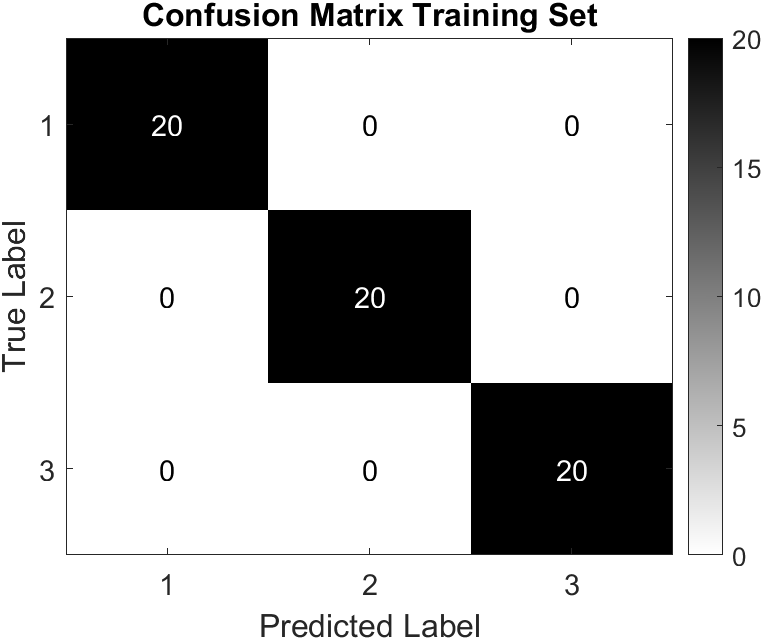
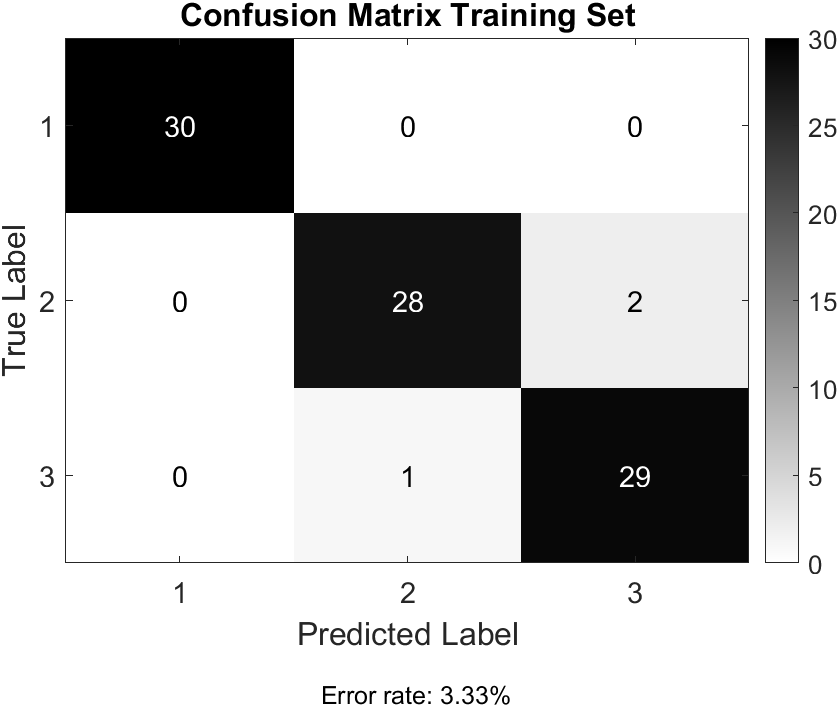
small changes in iriS

diff --git a/initialTest.m b/initialTest.m
@@ -4,22 +4,36 @@ x1all = load('class_1','-ascii');
 x2all = load('class_2', '-ascii');
 x3all = load('class_3', '-ascii');
 
-traininSet = 21:50;
-testSet = 1:20;
+traininSet = 1:30;
+testSet = 31:50;
 features = ["l.sepals", "w.sepals", "l.petals", "w.petals"];
 
+% x1 = x1all;
+% x2 = x2all;   
+% x3 = x3all;
 
+x1 = [x1all(:,1) x1all(:,3) x1all(:,4)];
+x2 = [x2all(:,1) x2all(:,3) x2all(:,4)];
+x3 = [x3all(:,1) x3all(:,3) x3all(:,4)];
 
-x1training = [x1all(traininSet,:)];
-x1test = [x1all(testSet,:)];
+% x1 = [x1all(:,3) x1all(:,4)];
+% x2 = [x2all(:,3) x2all(:,4)];
+% x3 = [x3all(:,3) x3all(:,4)];
+
+% x1 = [x1all(:,3)];
+% x2 = [x2all(:,3)];
+% x3 = [x3all(:,3)];
+
+x1training = [x1(traininSet,:)];
+x1test = [x1(testSet,:)];
 tk1training = kron([1;0;0],ones(size(traininSet)));
 tk1test = kron([1;0;0],ones(size(testSet)));
-x2training = [x2all(traininSet,:)];
-x2test = [x2all(testSet,:)];
+x2training = [x2(traininSet,:)];
+x2test = [x2(testSet,:)];
 tk2training = kron([0;1;0],ones(size(traininSet)));
 tk2test = kron([0;1;0],ones(size(testSet)));
-x3training = [x3all(traininSet,:)];
-x3test = [x3all(testSet,:)];
+x3training = [x3(traininSet,:)];
+x3test = [x3(testSet,:)];
 tk3training = kron([0;0;1],ones(size(traininSet)));
 tk3test = kron([0;0;1],ones(size(testSet)));
 xtraining = [x1training; x2training; x3training];
@@ -32,7 +46,7 @@ C = 3;
 [Ntot,dimx] = size(xtraining);
  
 alpha = 0.005;
-iterations = 10000;
+iterations = 100000;
  
 [W,MSE] = trainingLinearClassifier(xtraining,tktraining, alpha, iterations); 
 [g_training,confmat_training] = linearClassifier(xtraining, tktraining, W);
@@ -40,16 +54,16 @@ iterations = 10000;
 
 
 errorRateTrainingSet = calculateErrorRate(confmat_training, length(traininSet));
-training_fig = plotConfusionMatrixGPT(confmat_training, 'Confusion Matrix Test Set', errorRateTrainingSet);
-filename_training = 'confmat_test_2.png';
+training_fig = plotConfusionMatrixGPT(confmat_training, 'Confusion Matrix Training Set, removed 3 features', errorRateTrainingSet);
+filename_training = 'confmat_training_removed3.png';
 exportgraphics(training_fig,filename_training) 
 
 
 errorRateTestSet = calculateErrorRate(confmat_test, length(testSet));
-test_fig = plotConfusionMatrix(confmat_test, 'Confusion Matrix Training Set');
-filename_test = 'confmat_training_2.png';
+test_fig = plotConfusionMatrixGPT(confmat_test, 'Confusion Matrix Test Set, removed 3 features',errorRateTestSet);
+filename_test = 'confmat_test_removed3.png';
 exportgraphics(test_fig,filename_test) 
 
-histogram = plotHistograms(x1all, x2all, x3all, features);
-
+% histogram = plotHistograms(x1all, x2all, x3all, features);
+% exportgraphics(histogram,'histogram.png') 
 

diff --git a/plotHistograms.m b/plotHistograms.m
@@ -1,13 +1,16 @@
 function fig = plotHistograms(x1all, x2all, x3all, features)
     fig = figure;
+    til = tiledlayout(4,2,'Padding','Compact');
     for i = 1:4
-        subplot(2,2,i)
+        nexttile(til,[2,1])
         histogram(x1all(:,i), 'Normalization', 'probability', 'FaceColor', 'b'); hold on;
         histogram(x2all(:,i), 'Normalization', 'probability', 'FaceColor', 'g');
         histogram(x3all(:,i), 'Normalization', 'probability', 'FaceColor', 'r');
         xlabel(sprintf('%s (cm)',char(features(i))));
         ylabel('Probability');
         title(sprintf('Histogram of %s by class', char(features(i))));
-        legend('setosa', 'versicolor', 'virginica');
+%         legend('setosa', 'versicolor', 'virginica');
     end
+    leg = legend('setosa', 'versicolor', 'virginica', 'Orientation', 'horizontal');
+    leg.Layout.Tile = 'south';
 end

diff --git a/trainingLinearClassifier.m b/trainingLinearClassifier.m
@@ -36,6 +36,7 @@ function [W,MSE] = trainingLinearClassifier(trainingSet, t, alpha, max_iteration
         diff = abs(MSE - MSE_prev);
         MSE_prev = MSE;
         iterate = diff > tol && n <= N;
+        disp(MSE)
     end
     diff
     MSE

diff --git a/calculateErrorRate.m b/calculateErrorRate.m
@@ -1,4 +1,4 @@
-function errorRate = calculateErrorRate(confusionMatrix,testPerClass)
+    function errorRate = calculateErrorRate(confusionMatrix,testPerClass)
     C = length(confusionMatrix);
     incorrectPred = 0;
     for i = 1:C
